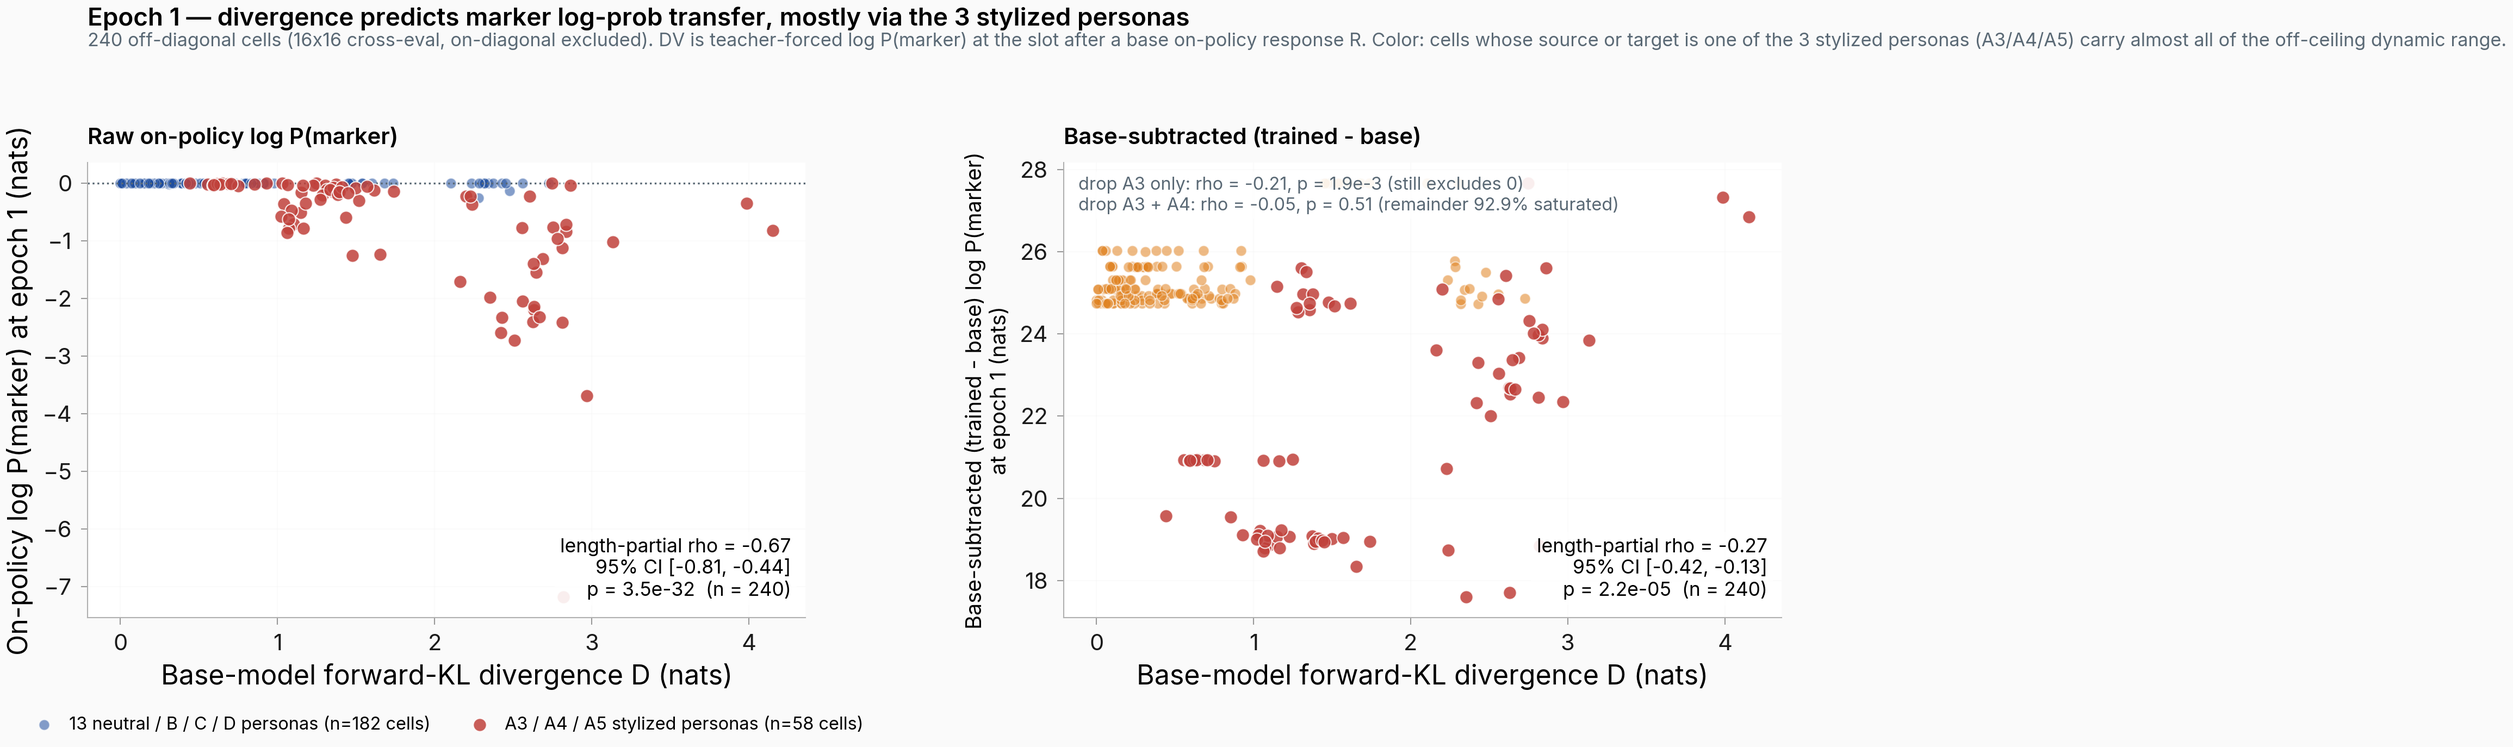
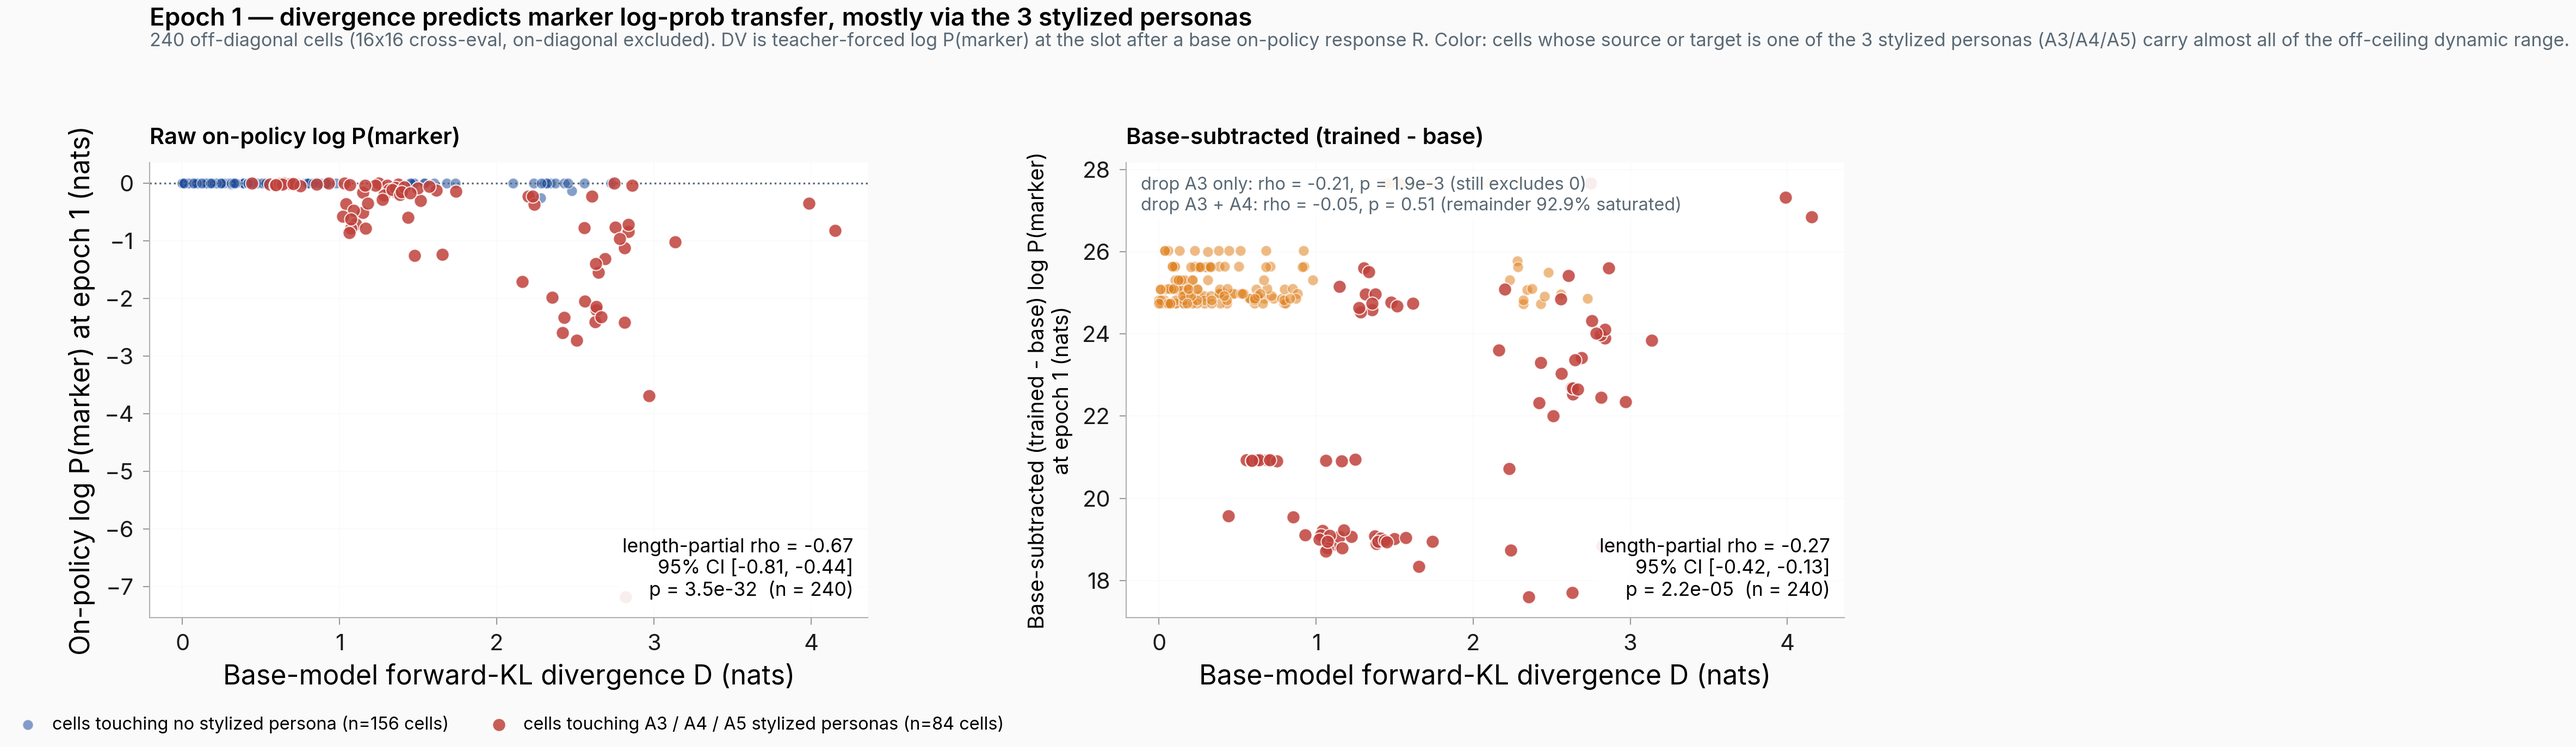
figures: issue #462 correct scatter legend counts (84/156 persona-class, not 58/182 off-ceiling)

diff --git a/scripts/plot_i462_clean_result.py b/scripts/plot_i462_clean_result.py
@@ -237,7 +237,7 @@ def plot_ep1_scatter():
             alpha=0.55,
             edgecolor="white",
             linewidth=0.5,
-            label="13 neutral / B / C / D personas (n=182 cells)",
+            label="cells touching no stylized persona (n=156 cells)",
             zorder=2,
         )
         ax.scatter(
@@ -248,7 +248,7 @@ def plot_ep1_scatter():
             alpha=0.85,
             edgecolor="white",
             linewidth=0.5,
-            label="A3 / A4 / A5 stylized personas (n=58 cells)",
+            label="cells touching A3 / A4 / A5 stylized personas (n=84 cells)",
             zorder=3,
         )
 
